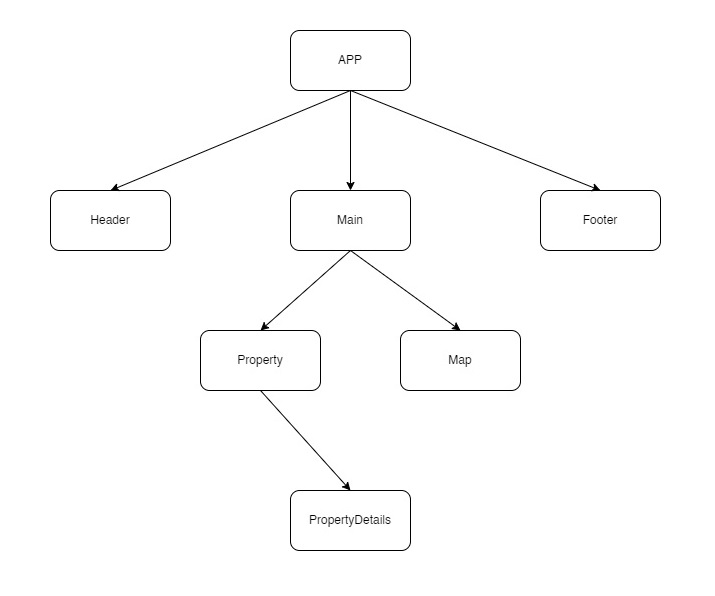
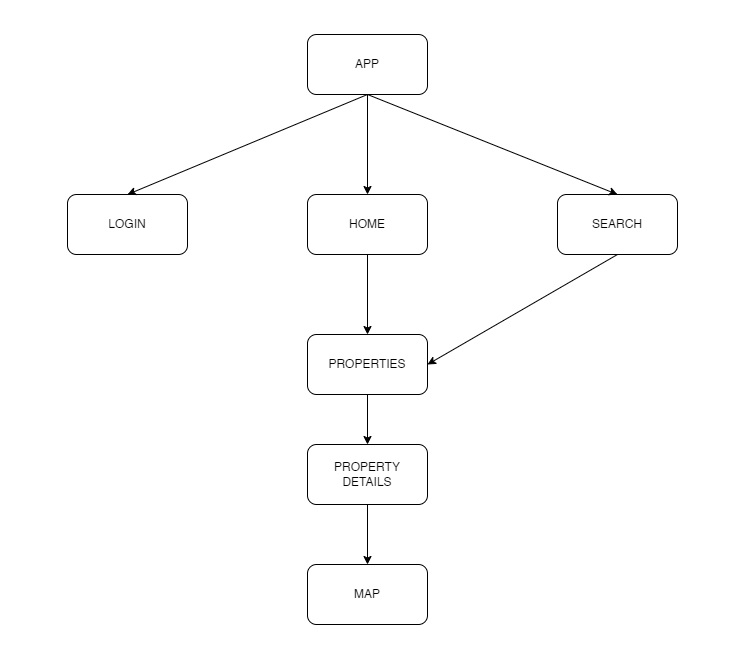
Readme update

diff --git a/README.md b/README.md
@@ -1,5 +1,83 @@
 # Real_Estate_Platform
 
+This web application is designed to manage real estate properties, users, and bookings. It is built using Django, PostgreSQL for the backend,React and Vite for the frontend. The application supports full CRUD operations and includes search functionality.
+
+## Table of Contents
+- [Installation](#installation)
+- [Backend Structure](#backend-structure)
+- [Diagrams](#diagrams)
+  - [ERD](#erd)
+  - [Hierarchy Diagram](#hierarchy-diagram)
+  - [Wireframe](#wireframe)
+- [Frontend Structure](#frontend-structure)
+  - [Features](#features)
+- [API Endpoints](#api-endpoints)
+- [Search Functionality](#search-functionality)
+- [Credits](#credits)
+- [Links to my Socials](#links-to-my-socials)
+
+
+## Instalation
+
+1. Make directory:
+    ```sh
+    mkdir Real_Estate_Platform
+    cd Real_Estate_Platform_Project
+    ```
+2. Set up a virtual environment:
+    ```sh
+    sudo apt install pipenv
+    pipenv shell
+    ```
+3. Install backend dependencies:
+    ```sh
+    pipenv install django
+    pipenv install psycopg2-binary
+    pipenv install djangorestframework
+    pip install django-cors-headers
+    ```
+4. Create App:
+    ```sh
+    pipenv run django-admin startproject projectName_django .
+    django-admin startapp Real_Estate
+    ```
+5. Set up PostgreSQL and configure your `DATABASES` setting in `settings.py`:
+    ```sh
+    touch settings.sql
+    psql -f settings.sql 
+    ```
+6. Apply database migrations:
+    ```sh
+    python3 manage.py makemigrations
+    python3 manage.py migrate
+    ```
+
+7. Create a superuser:
+    ```sh
+    python3 manage.py createsuperuser
+    ```
+8.  Install frontend dependencies:
+    ```sh
+    cd fron-tend
+    npm create vite@latest
+    npm run dev 
+    npm install react-router-dom
+    npm install @react-google-maps/api
+    ```
+9. Run the development servers:
+    ```sh
+    # In one terminal window, run the Django server
+    python3 manage.py runserver
+
+    # In another terminal window, run the React development server
+    npm run dev
+    ```
+
+## Backend Structure 
+
+* Models: User, Property, Booking
+* Serializers
+* Views
 
 ## ERD
 
@@ -12,3 +90,41 @@
 ## Wireframe
 
 ![Wireframe](Images/Wireframe.jpg)
+
+## Frontend Structure
+
+### Features
+
+* Full CRUD functionality for properties.
+* User login.
+* Property search by price range, city, and address.
+* Google Maps integration for property locations.
+* Booking management for users.
+
+## API Endpoints
+
+* GET /api/properties/ - List all properties
+* POST /api/properties/ - Create a new property
+* GET /api/properties/:id/ - Retrieve a property
+* PUT /api/properties/:id/ - Update a property
+* DELETE /api/properties/:id/ - Delete a property
+
+## Search Functionality
+
+* GET /api/properties/search/?price_min=&price_max=&city=&address=/ - Search propertiesby criteria
+
+## Credits
+
+* Environment Variables
+  - [React](https://www.dhiwise.com/post/react-environment-variables-your-guide-to-secure-react-apps)
+  - [Vite](https://vitejs.dev/guide/env-and-mode)
+* Googel Maps
+  - [Google Maps Platform](https://developers.google.com/maps/get-started)
+* Enumerated Data Types
+  - [Python Docs](https://docs.python.org/3/library/enum.html)
+  - [HackSoft](https://www.hacksoft.io/blog/introducing-django-enum-choices-2)
+  - [ChatGPT](https://chatgpt.com/)
+
+## Links to my Socials
+
+ * [GitHub](https://github.com/Vladimir1000)
